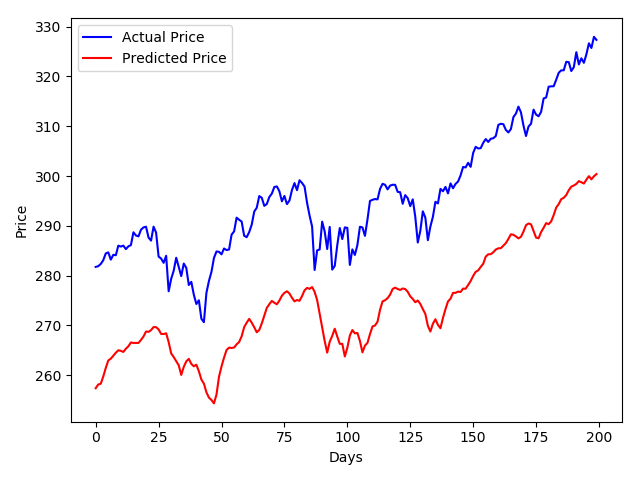
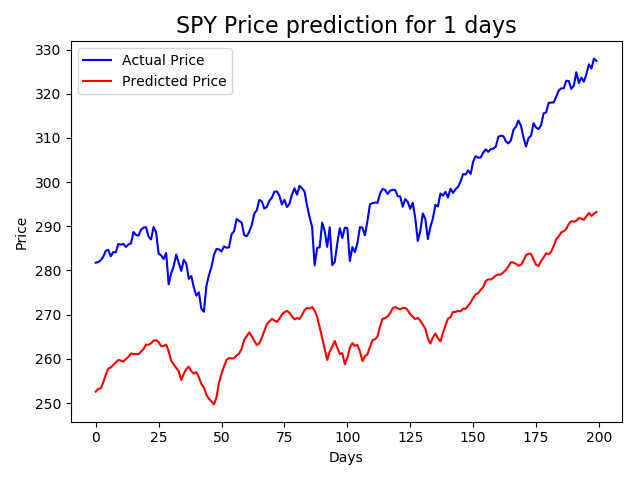
Updated sample image & readme

diff --git a/src/test.py b/src/test.py
@@ -16,7 +16,7 @@ def upsert_folders():
         os.mkdir("data")
 
 
-def plot_graph(model, data):
+def plot_graph(title, model, data):
     y_test = data["y_test"]
     X_test = data["X_test"]
     y_pred = model.predict(X_test)
@@ -24,6 +24,8 @@ def plot_graph(model, data):
     y_pred = np.squeeze(data["column_scaler"]["adjclose"].inverse_transform(y_pred))
     plt.plot(y_test[-200:], c='b')
     plt.plot(y_pred[-200:], c='r')
+
+    plt.title(title, fontsize=16)
     plt.xlabel("Days")
     plt.ylabel("Price")
     plt.legend(["Actual Price", "Predicted Price"])

diff --git a/src/main.py b/src/main.py
@@ -48,8 +48,8 @@ def main():
         future_price = predict(model, data)
         print(f"Future price after {LOOKUP_STEP} days is {future_price:.2f}$")
         print("Accuracy Score:", get_accuracy(model, data))
-
-        plot_graph(model, data)
+        title = TICKER + f" Price prediction for {LOOKUP_STEP} days"
+        plot_graph(title, model, data)
 
     run()
 

diff --git a/src/parameters.py b/src/parameters.py
@@ -28,7 +28,7 @@ DROPOUT = 0.50
 # mean squared error loss
 LOSS = "mse"
 OPTIMIZER = "adam"
-BATCH_SIZE = 128
+BATCH_SIZE = 32  # 128
 EPOCHS = 7  # 300
 
 # Apple stock market

diff --git a/README.md b/README.md
@@ -25,4 +25,5 @@ Links to [install instructions](https://www.tensorflow.org/install/gpu)
 1) Clone repo
 2) Install requirements.txt: `pip install -r requirements.txt `  
 3) Inspect & adjust model [parameters](src/parameters.py) 
-4) Run 
+4) Run main.py 
+5) Inspect results 
